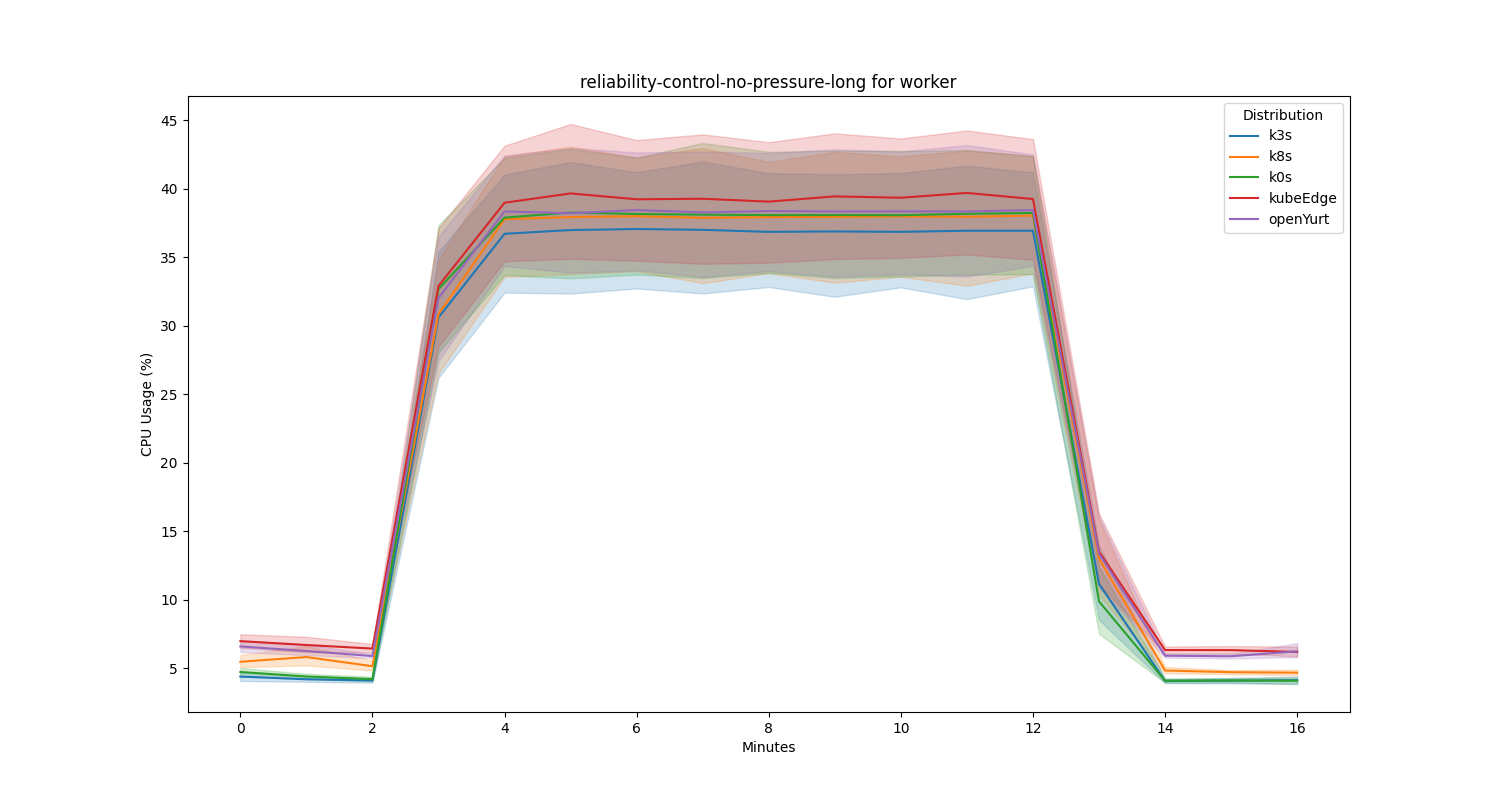
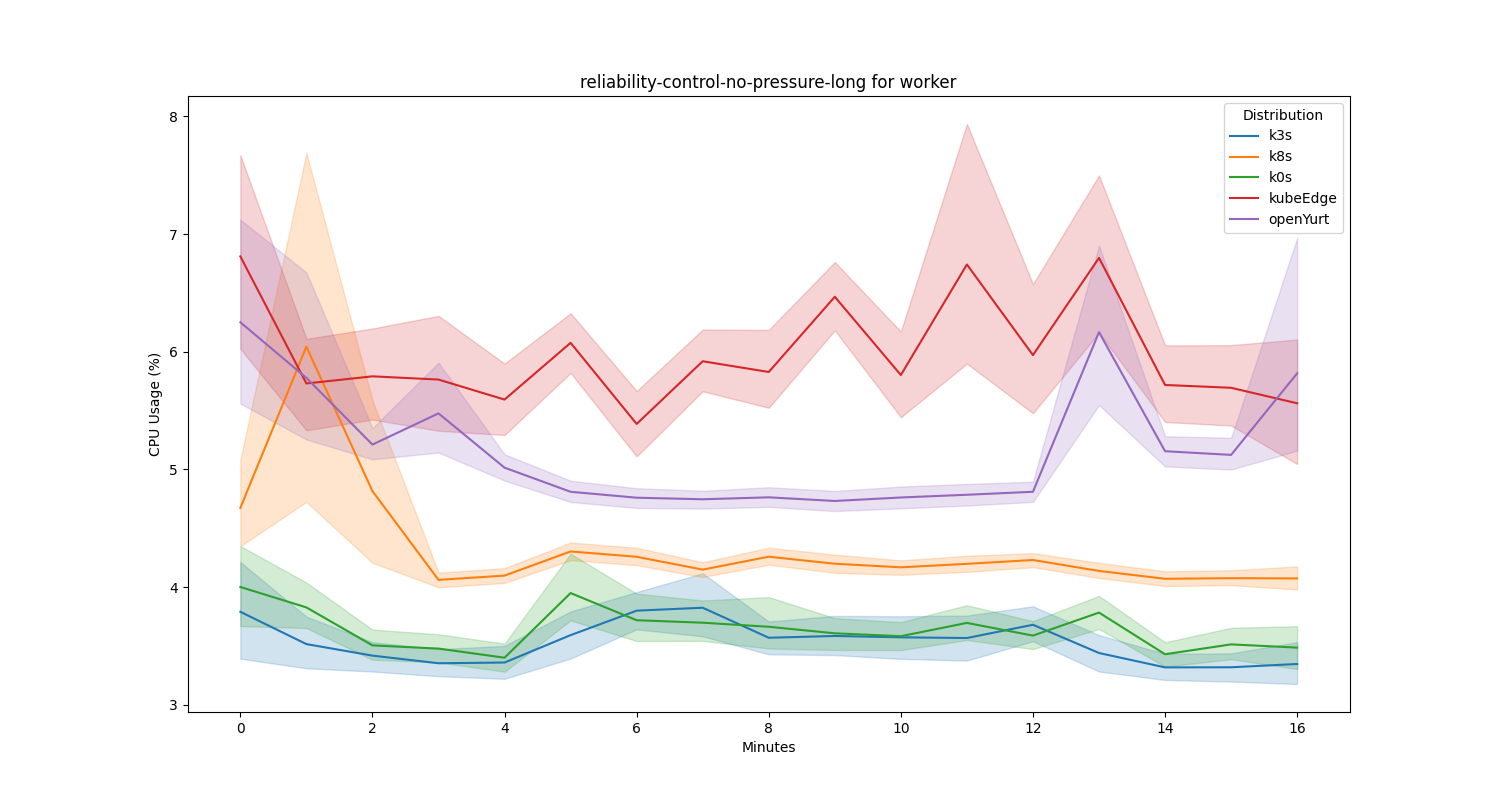
reliability-control | line (workers only)

Changed region(s): [[0.1533, 0.1562, 0.8893, 0.875], [0.092, 0.4375, 0.1227, 0.5938]]

diff --git a/src/utils/box-plotting.py b/src/utils/box-plotting.py
@@ -170,8 +170,8 @@ def create_plots_time_series(plot_type='scatter'):
                     files.append(f'../k-bench-results/{dist}/{test}/{test}-{i}/{test}-{i}-{unit}.csv')
             ylabel = 'CPU Usage (%)' if unit == 'cpu' else 'Memory Usage (Mb)' if unit == 'ram' else 'Network load (kB)' if unit == 'net' else 'Disk Usage (%)'
             
-            if test == 'reliability-control' or test == 'reliability-control-no-pressure-long':
-                workersOnly = False
+            # if test == 'reliability-control' or test == 'reliability-control-no-pressure-long':
+            #     workersOnly = False
 
             create_plots(files, f'{test}', 'Minutes', ylabel, toSave, plot_type, workersOnly, reliabilityTests)
             # create_plots(files, f'{test}', 'Minutes', 'Memory Usage (Mb)', toSave, plot_type, workersOnly, reliabilityTests)
